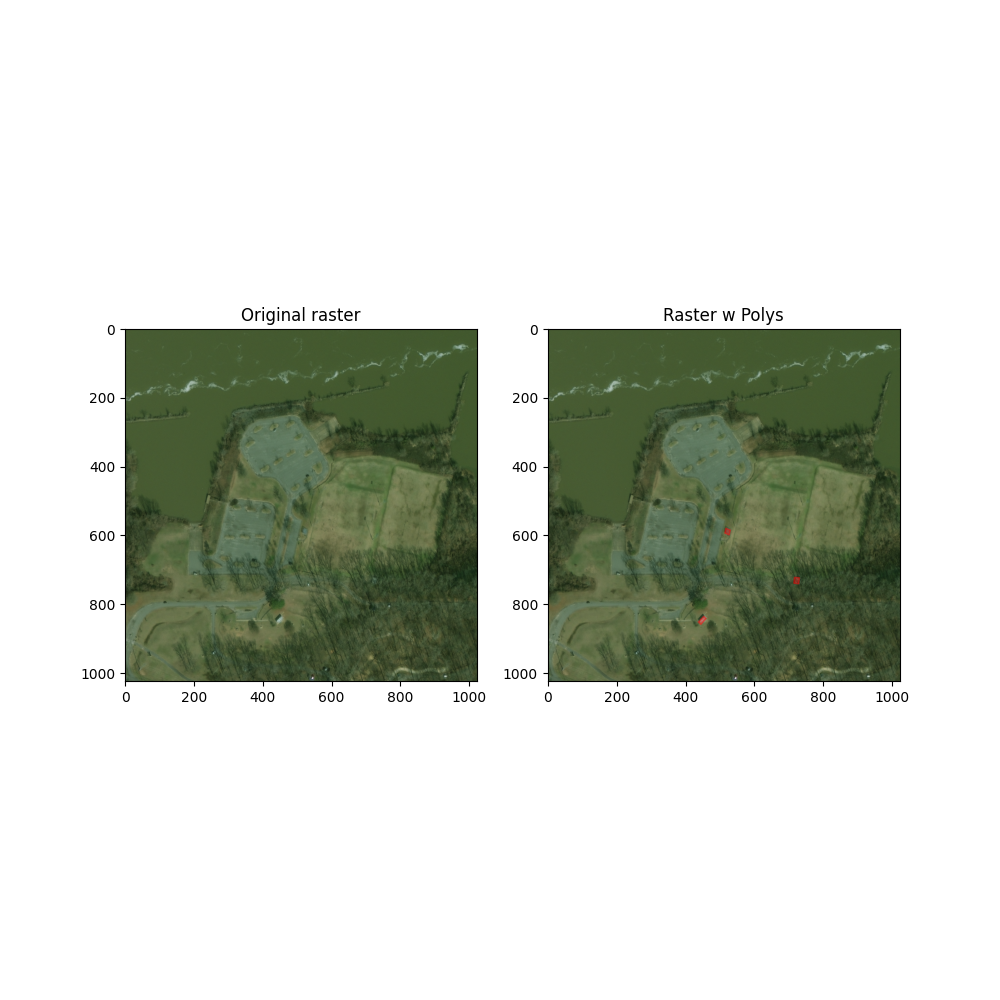
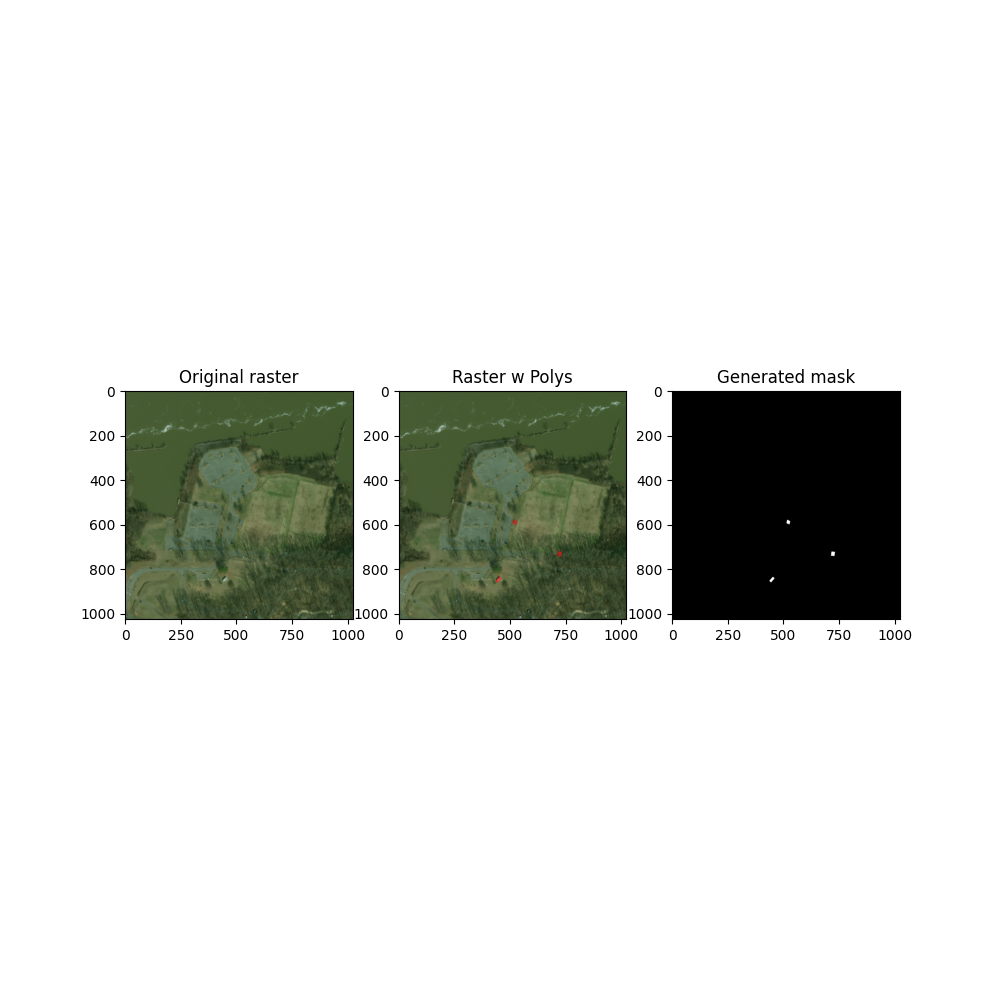
modified playgroung.py to include mask in the sample plot

Changed region(s): [[0.093, 0.31, 0.93, 0.713], [0.093, 0.434, 0.124, 0.496]]

diff --git a/playground.py b/playground.py
@@ -10,7 +10,8 @@ import json
 import shapely
 # from shapely.ops import transform
 from typing import List
-
+import cv2
+import numpy as np
 
 rim_path = "Data/geotiffs/tier1/images" # images relative path
 rpoly_path = "Data/geotiffs/tier1/labels" # labels relative path
@@ -85,10 +86,10 @@ for idx, raster_path in enumerate(rimgs):
             img = raster.read([1,2,3]) # returns 3-d array : i.e. (bands, h, w)
 
             # Raster IO → (bands, rows, cols)
-            # plotting → (rows, cols, channels)
-            img = img.transpose(1,2,0) # reorder the img array to follow (h,w,band) order as matplotlib adheres to such an order
+            # plotting/ml stuff → (rows, cols, channels)
+            img = img.transpose(1,2,0) # transpose the img array to follow (h,w,band) order
 
-
+            height, width = img.shape[:2]
 
             # coordinate transformer to ensure ploygons and raster follow the same CRS, preventing misalignment of polygons in the final plot
             # crs_trans = Transformer.from_crs(
@@ -100,11 +101,13 @@ for idx, raster_path in enumerate(rimgs):
             # poly_proj = transform(crs_trans.transform, polygons)
 
             # plot raster
-            fig, ax = plt.subplots(1,2,figsize=(10, 10))
+            fig, ax = plt.subplots(1,3,figsize=(10, 10))
             ax[0].set_title("Original raster")
             ax[0].imshow(img)
 
             transform = raster.transform
+
+            mask = np.zeros((height, width), dtype=np.uint8)
 
             for poly in polygons:
                 # following piece of code to be used if lang_lat coords were use for polygns. however, there seems to be some offset in where the polys are drawn and where
@@ -114,11 +117,12 @@ for idx, raster_path in enumerate(rimgs):
                 # patch = MplPolygon(coords, closed=True, facecolor='red', alpha=0.4)
                 #ax.add_patch(patch)
                 
-                x, y = poly.exterior.xy
+                coords = poly.exterior.coords
 
                 # MplPolygon is used for drawing "patches", plt.plot will only draw line but this will allow more customization over poly as a patch over the image
                 # requires a (x,y) pair tuples
-                coords = list(zip(x, y))
+                # fix : used poly.exterior.coords as it returns the same thing as below - 
+                # coords = list(zip(x, y))
 
                 patch = MplPolygon(
                     coords,
@@ -130,6 +134,17 @@ for idx, raster_path in enumerate(rimgs):
                 ax[1].set_title("Raster w Polys")
                 ax[1].imshow(img)
                 ax[1].add_patch(patch)
+
+                # get the mask
+                # Extracts polygon boundary points -> ensures image bounds are adhered to -> fills them on the mask
+                poly_pts = np.array(coords, dtype=np.int32)
+                poly_pts[:, 0] = np.clip(poly_pts[:, 0], 0, width - 1) # ensurin' polygons DO NOT exceed image bounds
+                poly_pts[:, 1] = np.clip(poly_pts[:, 1], 0, height - 1)
+            
+                cv2.fillPoly(mask, [poly_pts], 255)
+
+            ax[2].set_title("Generated mask")
+            ax[2].imshow(mask, cmap="gray")
 
             plt.show()
 
